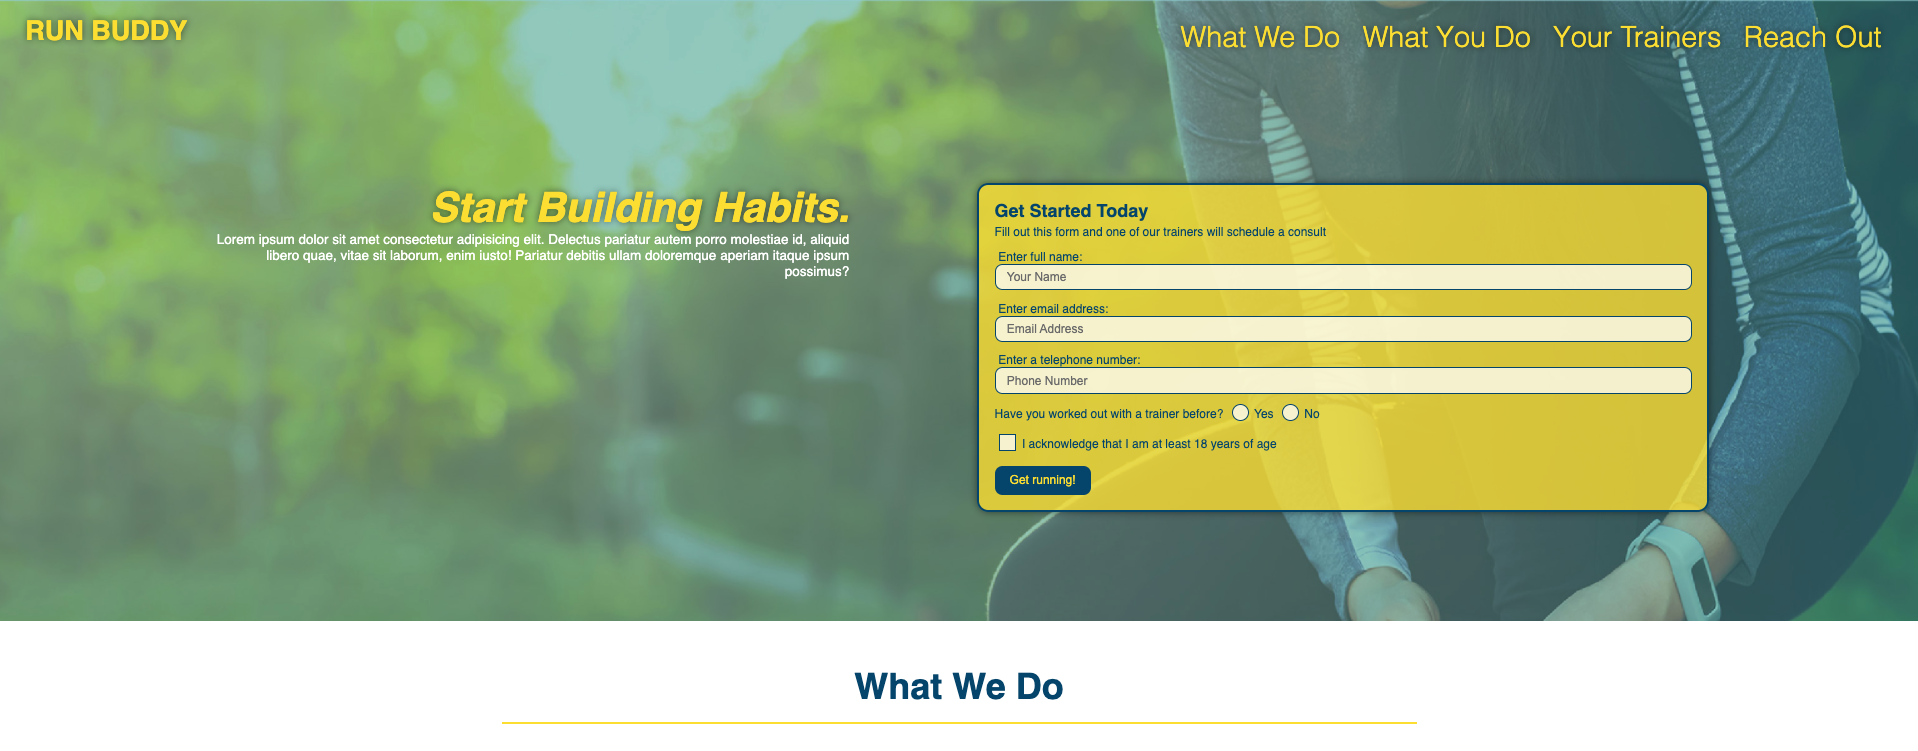
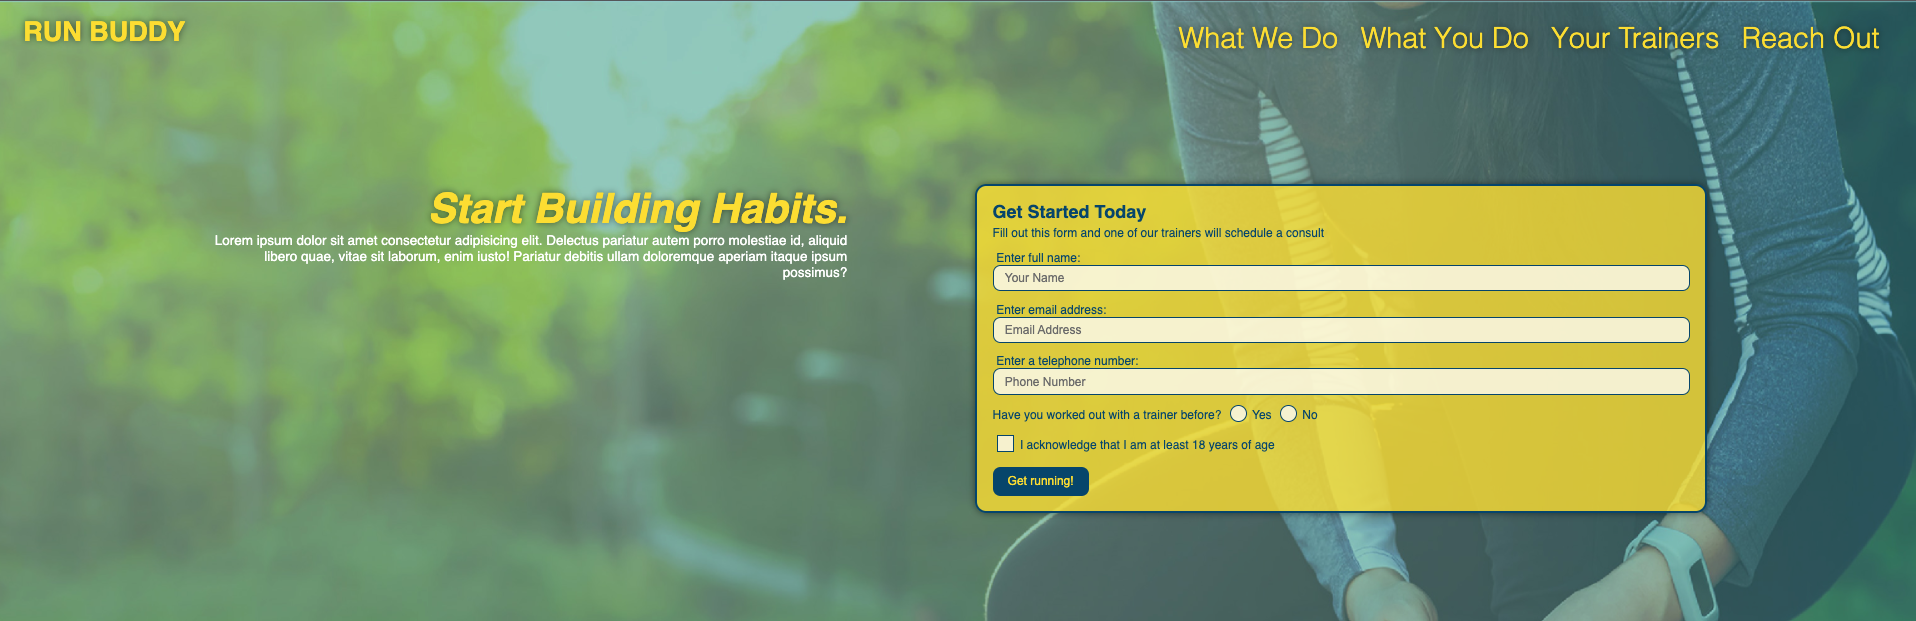
flexbox added to about me

diff --git a/assets/css/style.css b/assets/css/style.css
@@ -22,20 +22,17 @@ body {
 
 header {
     display: flex;
-    justify-content: space-around;
+    justify-content: space-between;
     flex-wrap: wrap;
-    position: -webkit-sticky; 
-    position: sticky; 
     top: 0 ; 
     background-color: var(--primary-color);
-    background-position: 70%;
-    z-index: 8000; 
+  
 }
 
 h1{
     font-size: 100px; 
     color: var(--quadtary-color);
-    margin: 0;
+    margin-left: 20px;
     align-items: center;
 }
 
@@ -51,7 +48,7 @@ header nav {
 header nav ul {
     display: flex;
     flex-wrap: wrap;
-    justify-content:space-around;
+    justify-content:space-between;
     align-items: center;
     list-style: none;
 }
@@ -105,13 +102,23 @@ footer {
 }
 
 .about {
-    margin-top: 20px;
+    margin: 20px auto 20px auto;
+    width: 95%; 
+    display: flex;
+    flex-wrap: wrap;
+    align-items: flex-start;
+    justify-content:flex-start;
+}
+
+.about p {
+    margin: 0 auto 0 40px; 
 }
 
 .section-title {
     font-size: 58px;
     color: var(--secondary-color);
     padding: 20px 0;
-    margin: 0 auto 14px 40px; 
+    margin: 0 auto 12px 20px; 
     width: 40%; 
+    justify-content: flex-start;
 }

diff --git a/index.html b/index.html
@@ -86,7 +86,7 @@
                 <article class="project">
                     <div class="project-img">
                         <a href="https://clarkspencerc.github.io/robot-gladiators/" >
-                        <img src="./assets/images/filler.png" alt="robot challenge website" />
+                        <img src="./assets/images/robot-challenger.png" alt="robot challenge website" />
                         </a>
                     </div>
                     <div class="project-text">
